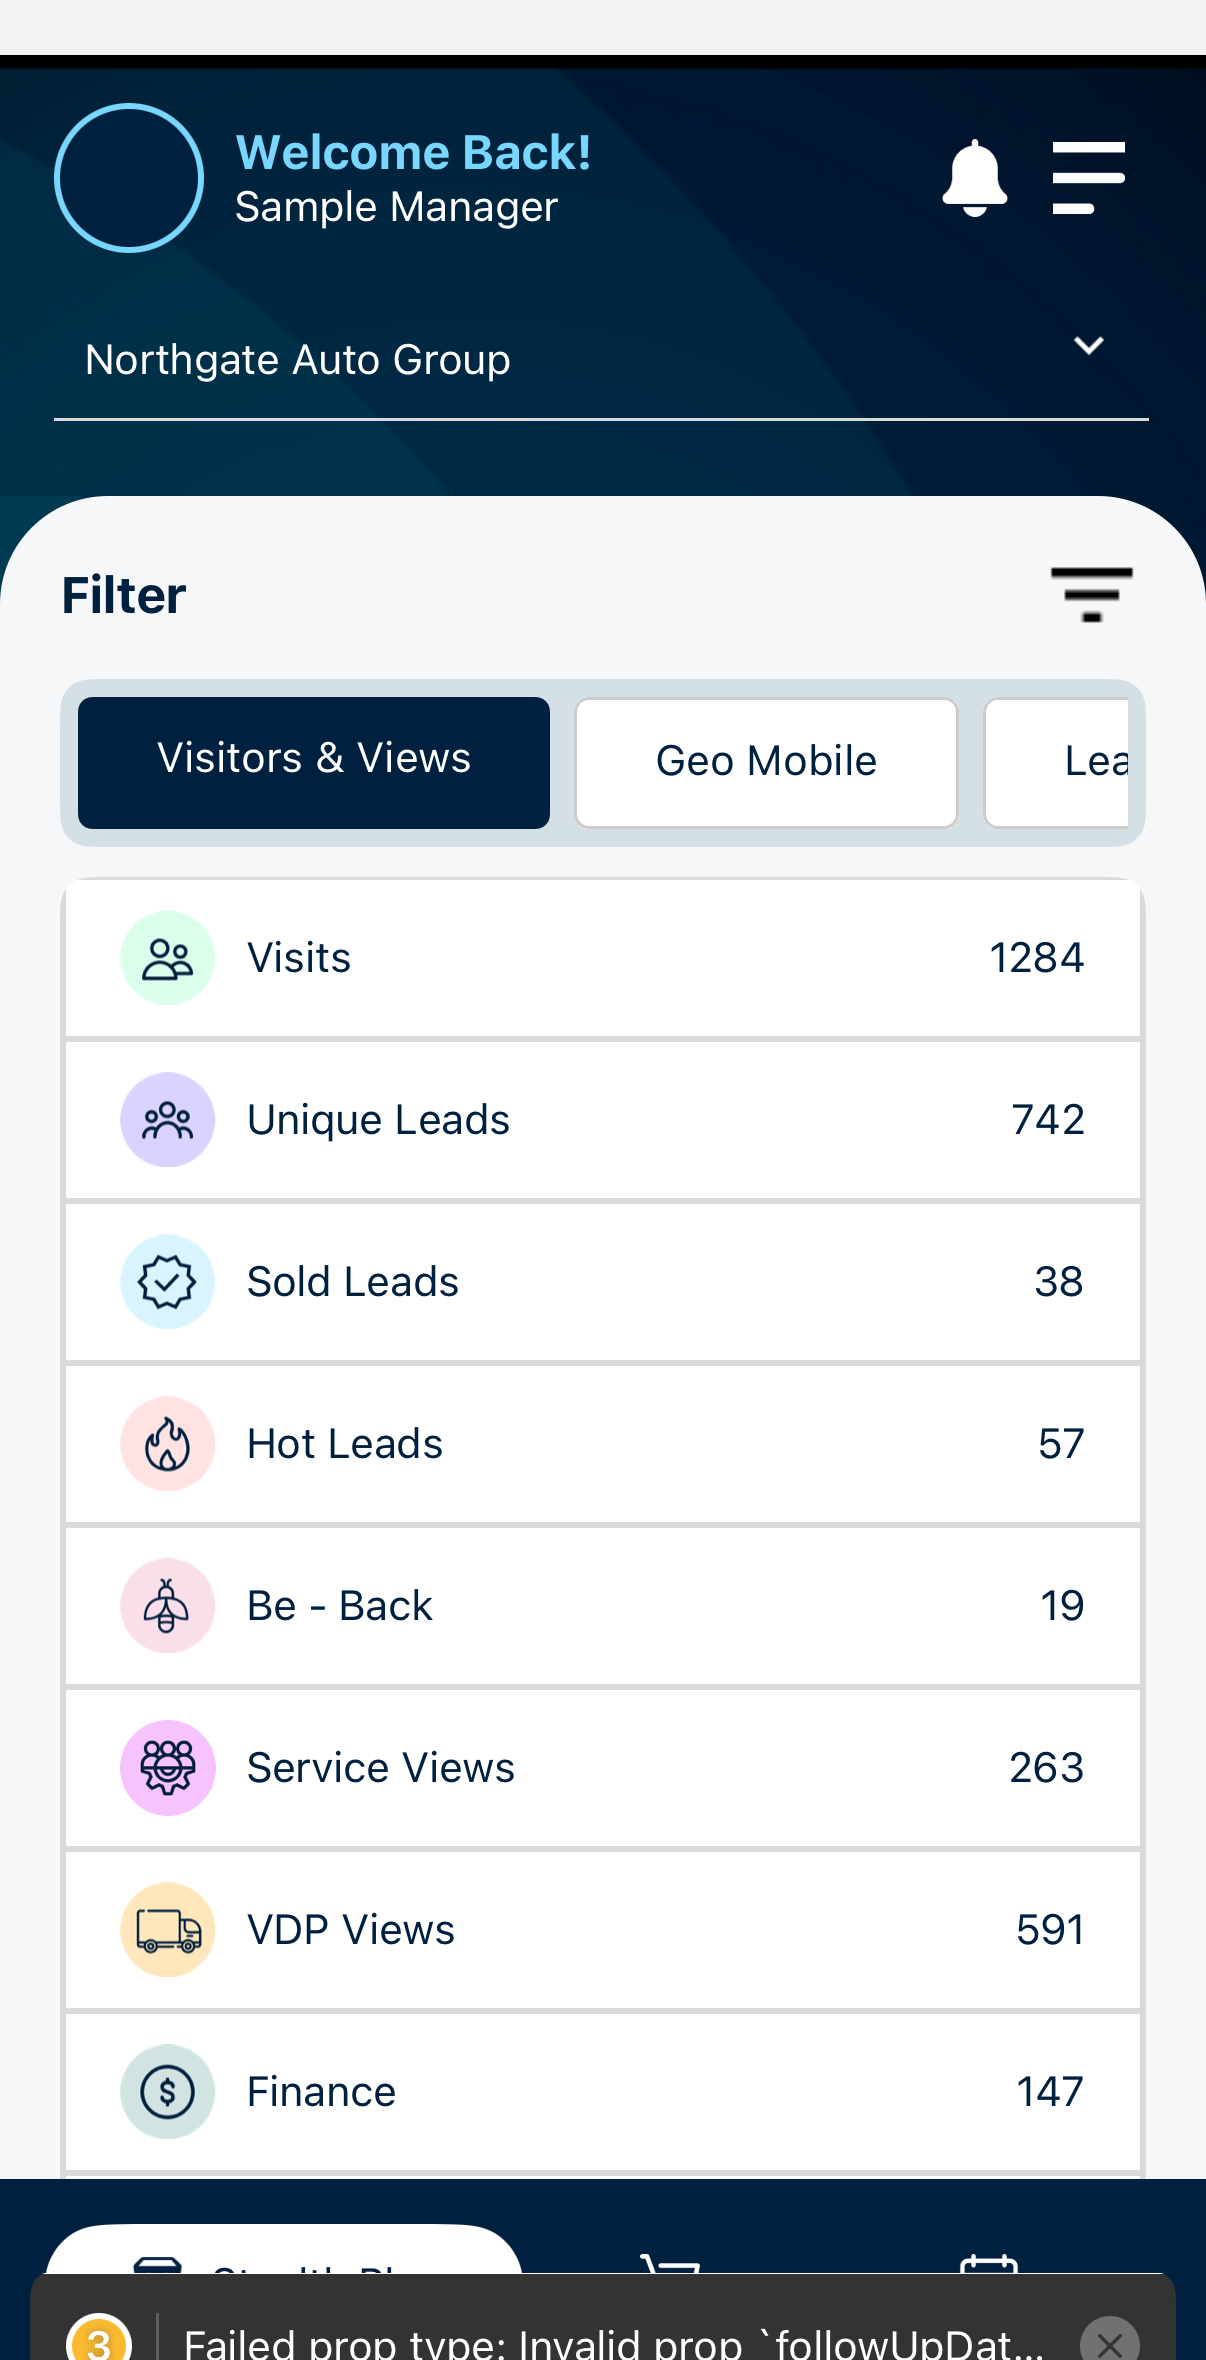
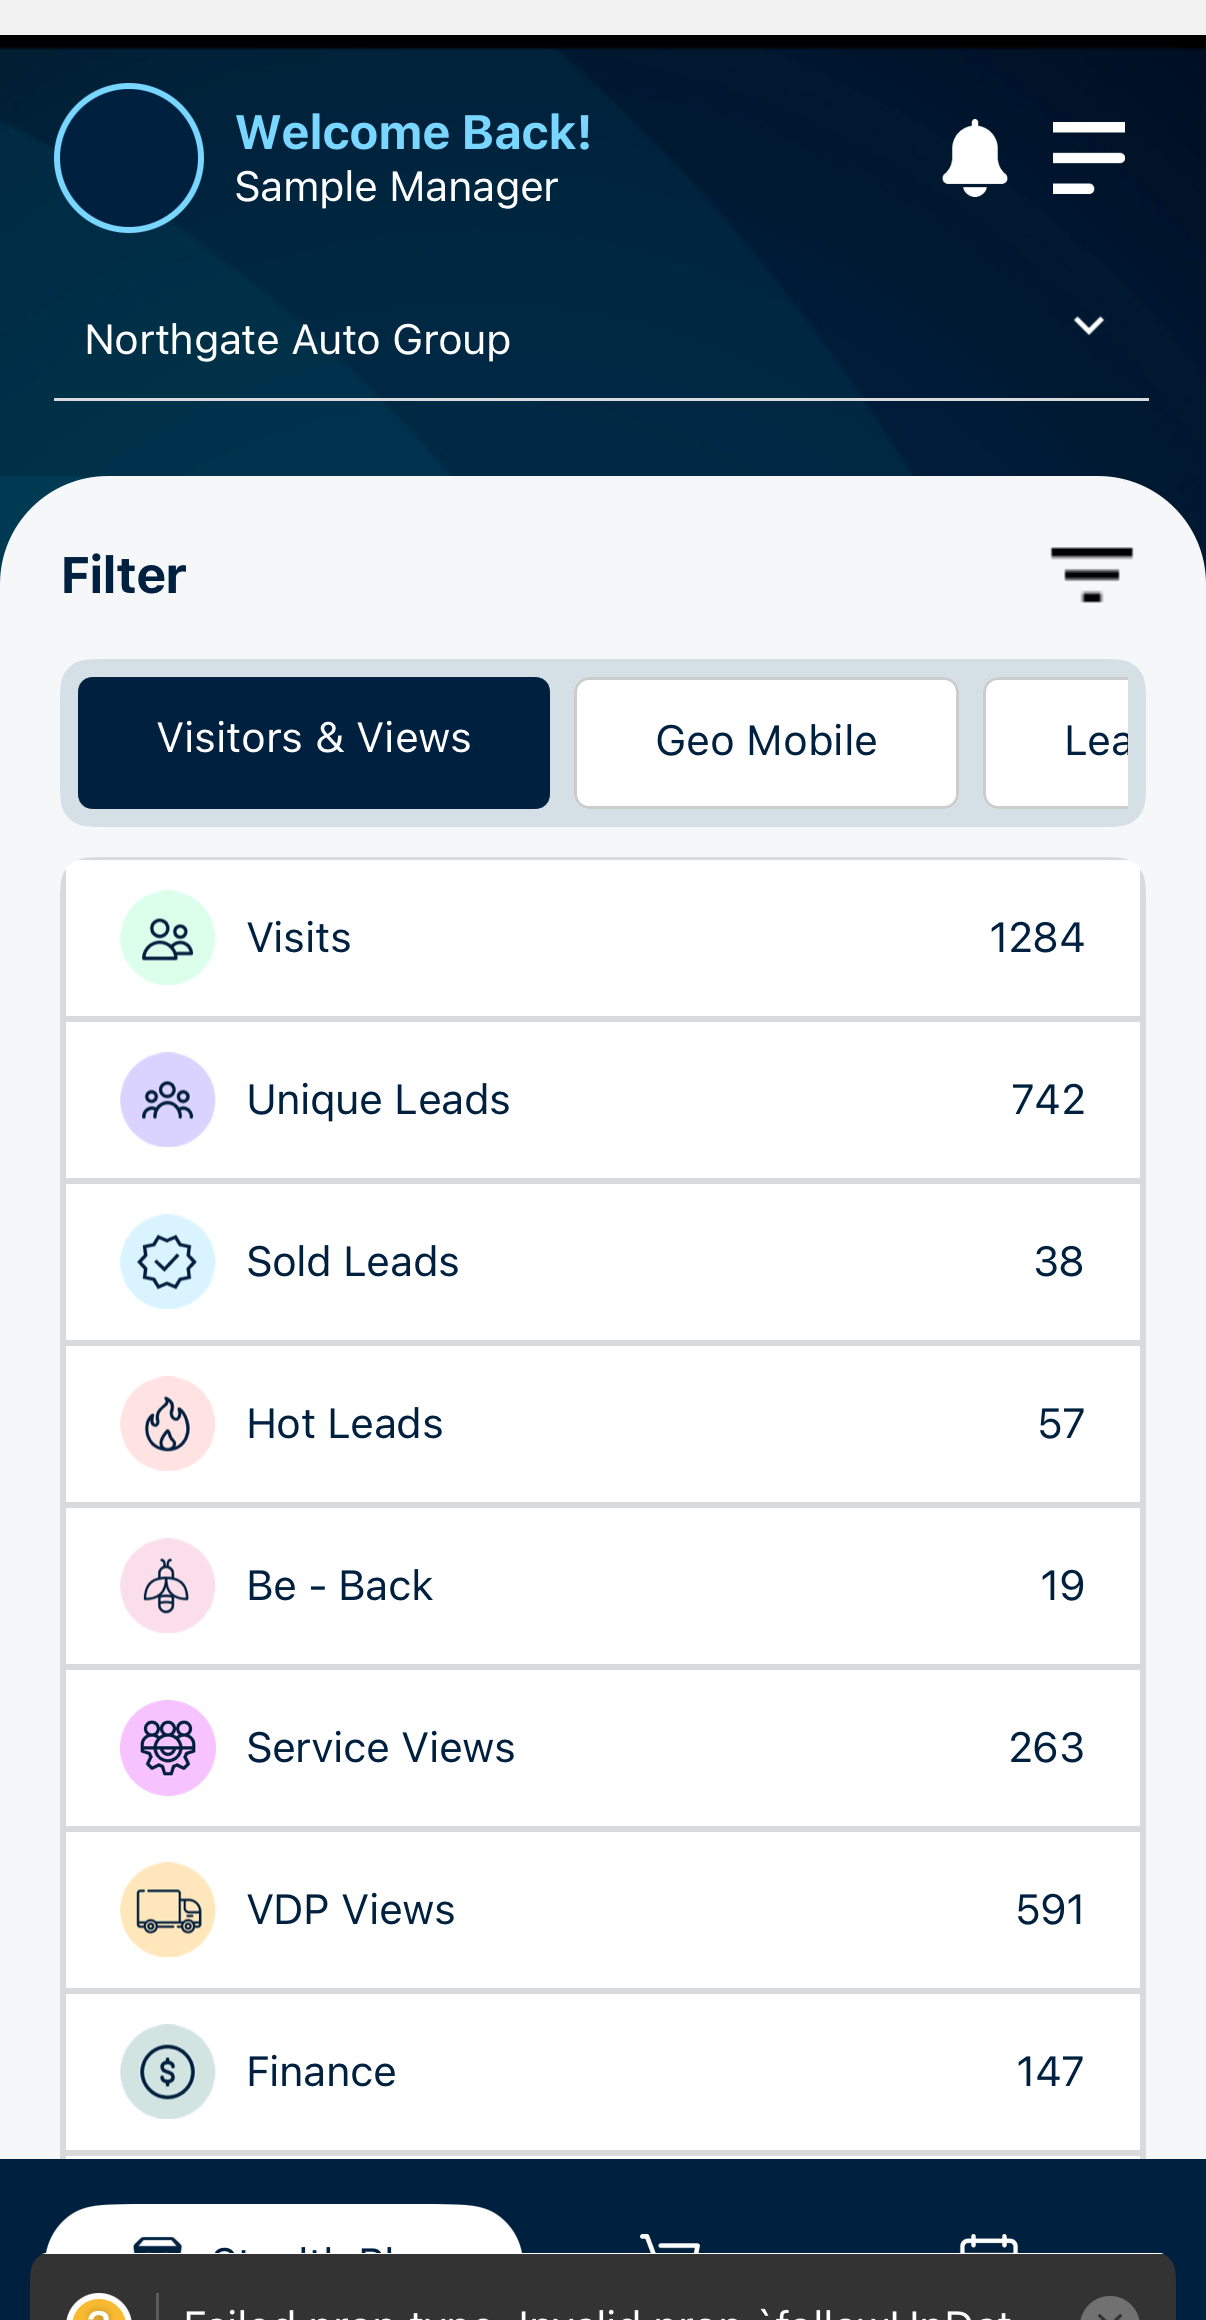
feat: wire real app captures into Dealership Toolkit case study
Three-beat product story (identify / act / convert) with one real screenshot
each, plus the analytics dashboard as the case hero. Replaces the typographic
cover for this project only.

- components/platform-story.tsx: beats, copy and provenance note
- app/case-story.css: hero frame and alternating beat layout
- projects.ts: stack and role now name React Native, since a React Native
  screen is on the page
- re-cropped the mobile capture; the previous sips crop was centred rather
  than top-anchored and left a React Native dev warning toast visible

diff --git a/components/platform-story.tsx b/components/platform-story.tsx
@@ -1,0 +1,83 @@
+const BASE = '/images/dealership-toolkit';
+
+/**
+ * Three beats of the product story, one real screenshot each.
+ *
+ * Screens are captured from the running applications against a dummy-data API:
+ * invented dealership, invented shoppers, client branding replaced at capture
+ * time. No production data and no mockups.
+ */
+const beats = [
+  {
+    n: '01',
+    label: 'IDENTIFY',
+    surface: 'Web dashboard',
+    title: 'Anonymous traffic becomes a named shopper.',
+    body: 'Website visitors are resolved into profiles with contact details, page and location history, and a lead temperature the team can sort on.',
+    img: `${BASE}/web-visitors.webp`,
+    alt: 'Visitor list showing resolved shopper profiles with contact details and lead status',
+    width: 1456,
+    height: 816,
+    portrait: false,
+  },
+  {
+    n: '02',
+    label: 'ACT',
+    surface: 'React Native app',
+    title: 'The same intelligence, away from the desk.',
+    body: 'The mobile client reads the same permission model as the web dashboard, so staff on the floor see the modules they are entitled to and nothing else.',
+    img: `${BASE}/mobile-dashboard.webp`,
+    alt: 'Mobile dashboard showing visitor and lead counters',
+    width: 600,
+    height: 1155,
+    portrait: true,
+  },
+  {
+    n: '03',
+    label: 'CONVERT',
+    surface: 'Web dashboard',
+    title: 'Interest becomes a booked appointment.',
+    body: 'Appointments, hot alerts and outcomes land in one view, while the queue engine keeps reminders and follow-up sending in the background.',
+    img: `${BASE}/web-appointments.webp`,
+    alt: 'Appointments dashboard with status counters and a month calendar',
+    width: 1456,
+    height: 816,
+    portrait: false,
+  },
+];
+
+export function PlatformStory() {
+  return (
+    <section className="case-story" aria-label="Product walkthrough">
+      {beats.map((b) => (
+        <article
+          key={b.n}
+          className={`story-beat${b.portrait ? ' is-portrait' : ''}`}
+        >
+          <div className="beat-copy">
+            <p className="eyebrow">
+              {b.n} / {b.label}
+            </p>
+            <h3>{b.title}</h3>
+            <p>{b.body}</p>
+            <span className="beat-surface">{b.surface}</span>
+          </div>
+          <figure className="beat-shot">
+            <img
+              src={b.img}
+              alt={b.alt}
+              width={b.width}
+              height={b.height}
+              loading="lazy"
+            />
+          </figure>
+        </article>
+      ))}
+      <p className="case-note">
+        Screens captured from the running applications using fictional sample
+        data. The dealership, the shoppers and their contact details are
+        invented, and client branding is replaced. No production data is shown.
+      </p>
+    </section>
+  );
+}

diff --git a/app/work/[slug]/page.tsx b/app/work/[slug]/page.tsx
@@ -6,6 +6,7 @@ import { ContactBanner, Phones } from "@/components/shared";
 import { Journey } from "@/components/journey";
 import { CalendarArt, WorkflowArt } from "@/components/project-art";
 import { SourceWalkthrough } from "@/components/source-walkthrough";
+import { PlatformStory } from "@/components/platform-story";
 export function generateStaticParams() {
   return Object.keys(projects).map((slug) => ({ slug }));
 }
@@ -82,9 +83,18 @@ export default async function Project({
           <div className="case-art">
             <WorkflowArt />
           </div>
+        ) : slug === "dealership-toolkit" ? (
+          <div className="case-shot-hero">
+            <img
+              src="/images/dealership-toolkit/web-dashboard.webp"
+              alt="Visitor analytics dashboard with lead and engagement counters"
+              width="1456"
+              height="816"
+            />
+          </div>
         ) : (
           <div
-            className={`editorial-cover ${slug === "cleanhaus" ? "cleanhaus" : slug === "pv-rugs" ? "pvrugs" : "toolkit-cover"}`}
+            className={`editorial-cover ${slug === "cleanhaus" ? "cleanhaus" : "pvrugs"}`}
           >
             <p className="eyebrow">{p.name.toUpperCase()}</p>
             <h2>{p.cover}</h2>
@@ -93,13 +103,13 @@ export default async function Project({
         )}
         <div className="case-body">
           {slug === "cleanhaus" && <SourceWalkthrough project="cleanhaus" />}
-          {slug === "dealership-toolkit" && <SourceWalkthrough project="dealership" />}
           <section className="case-section">
             <h2>The product</h2>
             <div>
               <p>{p.context}</p>
             </div>
           </section>
+          {slug === "dealership-toolkit" && <PlatformStory />}
           <section className="case-section">
             <h2>The challenge</h2>
             <div>

diff --git a/app/case-story.css b/app/case-story.css
@@ -1,0 +1,88 @@
+/* Dealership Toolkit case study: image hero + three-beat product story.
+   Real app captures, so the layout stays quiet and lets the screens speak. */
+
+.case-shot-hero {
+  border-radius: 14px;
+  overflow: hidden;
+  background: #0f1621;
+  border: 1px solid var(--line);
+  line-height: 0;
+}
+.case-shot-hero img {
+  width: 100%;
+  height: auto;
+}
+
+.case-story {
+  margin-block: 70px 20px;
+}
+.story-beat {
+  display: grid;
+  grid-template-columns: 0.8fr 1.2fr;
+  gap: 48px;
+  align-items: center;
+  margin-bottom: 80px;
+}
+.story-beat:nth-child(even) .beat-copy {
+  order: 2;
+}
+.beat-copy h3 {
+  font-size: clamp(25px, 2.4vw, 32px);
+  line-height: 1.25;
+  margin: 14px 0 16px;
+}
+.beat-copy > p {
+  color: var(--muted);
+  font-size: 17px;
+  line-height: 1.8;
+  max-width: 48ch;
+}
+.beat-surface {
+  display: inline-block;
+  margin-top: 18px;
+  font-size: 12px;
+  letter-spacing: 0.07em;
+  text-transform: uppercase;
+  color: var(--muted);
+  border: 1px solid var(--line);
+  border-radius: 20px;
+  padding: 5px 12px;
+}
+.beat-shot {
+  margin: 0;
+  line-height: 0;
+}
+.beat-shot img {
+  width: 100%;
+  height: auto;
+  border-radius: 12px;
+  border: 1px solid var(--line);
+  box-shadow: 0 18px 40px #0a0f1724;
+}
+
+/* The mobile capture is portrait — keep it phone-sized instead of letting it
+   stretch to the full column width. */
+.story-beat.is-portrait .beat-shot img {
+  width: auto;
+  max-width: 100%;
+  max-height: 560px;
+  margin: 0 auto;
+  display: block;
+  border-radius: 22px;
+}
+
+@media (max-width: 860px) {
+  .story-beat,
+  .story-beat:nth-child(even) .beat-copy {
+    grid-template-columns: 1fr;
+    order: 0;
+    gap: 24px;
+    margin-bottom: 55px;
+  }
+  .case-story {
+    margin-block: 45px 10px;
+  }
+  .story-beat.is-portrait .beat-shot img {
+    max-height: 460px;
+  }
+}

diff --git a/lib/projects.ts b/lib/projects.ts
@@ -85,9 +85,9 @@ export const projects = {
     category: "B2B CRM / ANONYMIZED PROJECT",
     title: "Real-time coordination for a busy dealership.",
     summary:
-      "Multi-role dashboards, lead and appointment updates, and dependable background communication workflows.",
-    role: "Full-stack development",
-    stack: "React · Node.js · PostgreSQL · Socket.io · Redis · Bull",
+      "Multi-role dashboards on web and mobile, lead and appointment updates, and dependable background communication workflows.",
+    role: "Full-stack & React Native development",
+    stack: "React Native · React · Node.js · PostgreSQL · Socket.io · Redis · Bull",
     cover: "The right update. To the right team.",
     context:
       "This B2B dealership CRM supports users with different responsibilities and access levels. Lead and appointment activity needs to reach the right people promptly, while communication jobs need reliable processing. Client details are intentionally anonymized.",

diff --git a/app/layout.tsx b/app/layout.tsx
@@ -6,6 +6,7 @@ import "@fontsource-variable/nunito-sans";
 import "@fontsource-variable/fraunces";
 import "./studio.css";
 import "./walkthrough.css";
+import "./case-story.css";
 import { Navigation } from "@/components/navigation";
 import { MotionEffects } from '@/components/motion-effects';
 export const metadata: Metadata = {

diff --git a/README.md b/README.md
@@ -41,7 +41,7 @@ The contact form opens an email draft using the visitor's mail client. It does n
 
 ## Asset provenance
 
-Inzer screens and video are adapted, code-derived portfolio demonstrations with fictional sample data. They are not a live app or proof of backend functionality. The underlying client source code is not included. Project descriptions describe Khalid's team contributions at Datics AI, based on his provided résumé. The CleanHaus gallery artwork is its supplied onboarding illustration (`assets/onboarding/welcome-stack/hero-1.png`), optimized for the website. CleanHaus detail, PV Rugs, and Dealership Toolkit diagrams describe architecture and workflows, not product screenshots. Client media is not licensed for third-party reuse.
+Inzer screens and video are adapted, code-derived portfolio demonstrations with fictional sample data. They are not a live app or proof of backend functionality. The underlying client source code is not included. Project descriptions describe Khalid's team contributions at Datics AI, based on his provided résumé. The CleanHaus gallery artwork is its supplied onboarding illustration (`assets/onboarding/welcome-stack/hero-1.png`), optimized for the website. CleanHaus detail and PV Rugs diagrams describe architecture and workflows, not product screenshots. The Dealership Toolkit case study uses real screenshots of the client applications captured against a dummy-data API: the dealership, the shoppers and their contact details are invented, and the client logo, product name and vendor footer are replaced at capture time. No production data and no client identity appear in them. Full-resolution originals are kept in `assets/dealership-toolkit/` (not deployed); the capture harness lives outside this repo. Client media is not licensed for third-party reuse.
 
 The redesign takes presentation inspiration from the user's specific [AI Property Management App shot by Asib Iquebal](https://dribbble.com/shots/27761850-AI-Property-Management-App-Smart-Tenant-Maintenance-Assistant): paired mobile screens, soft mint and warm neutral canvases, rounded surfaces, and generous spacing. This refers to the artwork inside the shot, not Dribbble's website layout. No Dribbble artwork is embedded or copied. The portfolio's editorial layout and original project compositions are implemented in `app/creative.css` and `components/project-art.tsx`.
 
